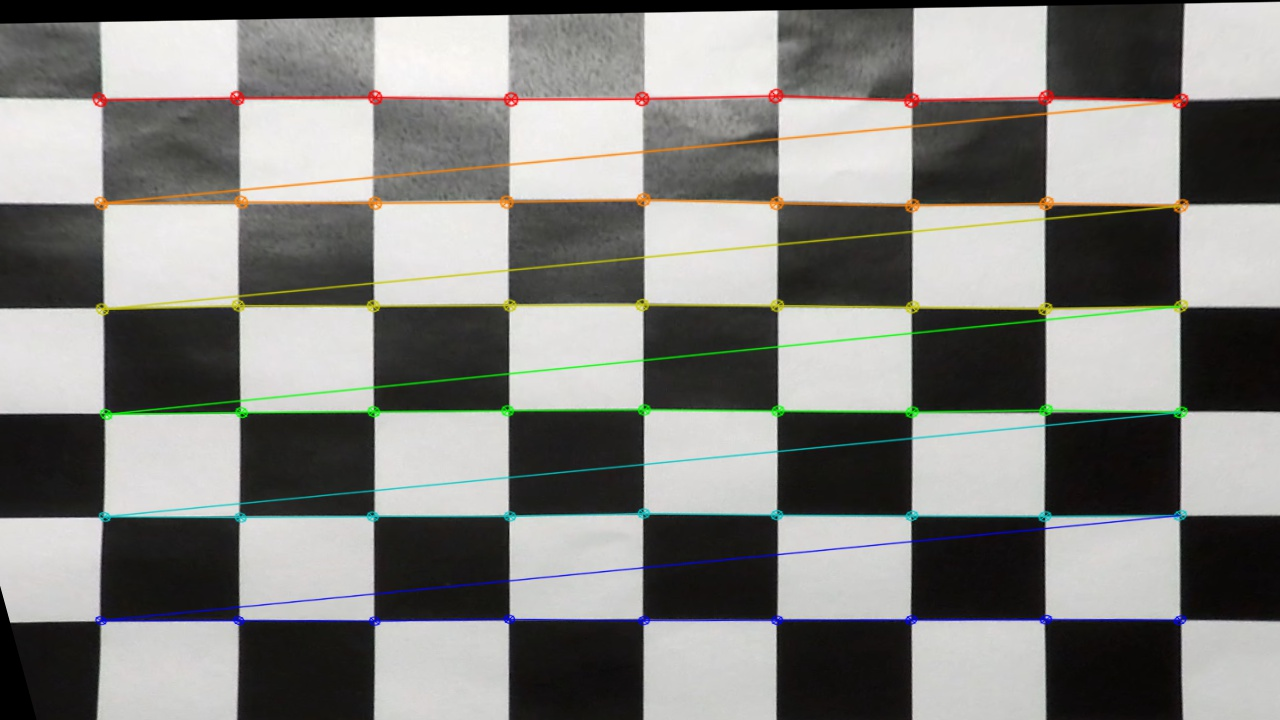
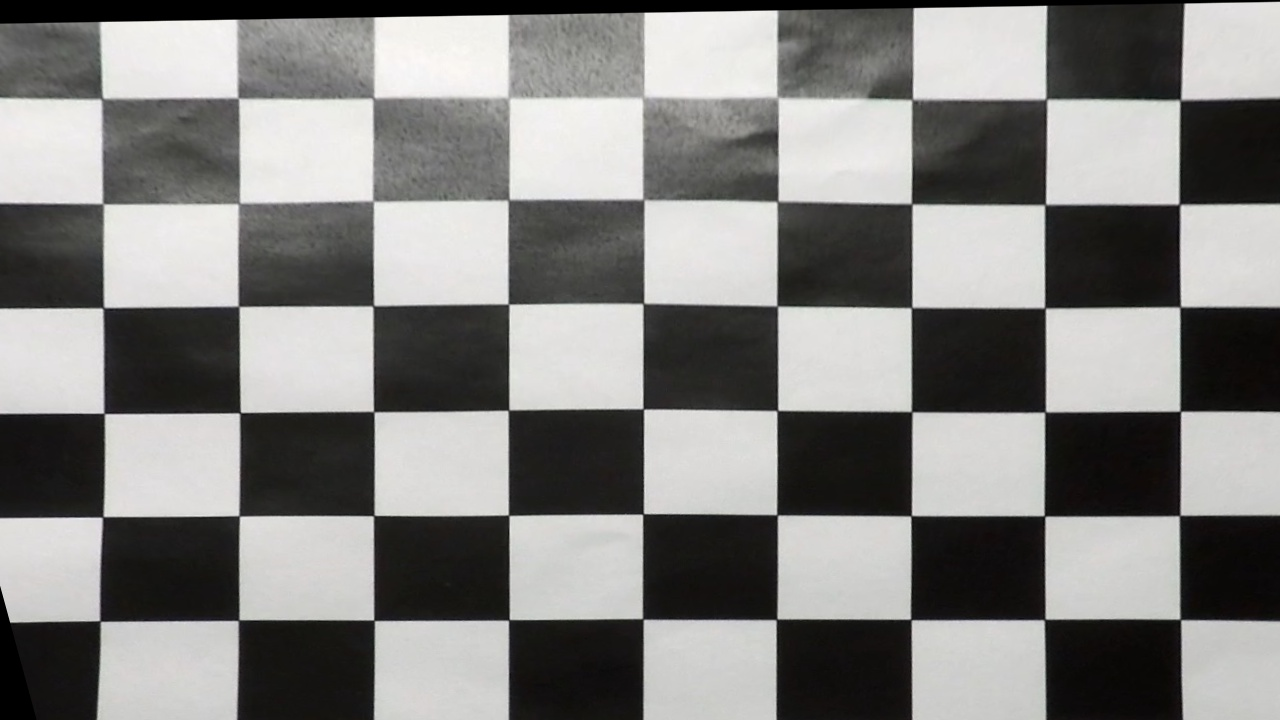
WIP on curve thresholds

diff --git a/transforms.py b/transforms.py
@@ -1,7 +1,6 @@
 import cv2
 import glob
 import pickle
-import sys, getopt
 import numpy as np
 
 nx, ny = 9, 6
@@ -10,7 +9,6 @@ img_in_dir      = 'camera_cal'
 chess_out_dir   = 'output_images/draw_chess'
 calib_out_dir   = 'output_images/calib_cam'
 warp_out_dir    = 'output_images/warped'
-params_out_file = 'output_rsc/wide_dist_pickle.p'
 # params_file    = 'wide_dist_pickle.p'
 
 def get_obj_img_points(nx=9, ny=6, in_dir='camera_cal', out_dir='draw_chess'):
@@ -50,13 +48,14 @@ def get_obj_img_points(nx=9, ny=6, in_dir='camera_cal', out_dir='draw_chess'):
 def calibrate_undistort(objpoints, imgpoints, test_image, out_dir='calib_cam'):
     # Test undistortion on an image
     # img = cv2.imread(test_image)
+    print("test_image type,", type(test_image))
     img_size = (test_image.shape[1], test_image.shape[0])
 
     # Doing camera calibration given object points and image points
     ret, mtx, dist, rvecs, tvecs = cv2.calibrateCamera(objpoints, imgpoints, img_size,None,None)
 
     dst = cv2.undistort(test_image, mtx, dist, None, mtx)
-    cv2.imwrite(out_dir+'/test_undist.jpg', dst)
+    cv2.imwrite(out_dir+'/lane_undist.jpg', dst)
     return mtx, dist
 
 def save_params(objpoints, imgpoints, mtx, dist, out_file='wide_dist_pickle.p'):
@@ -77,127 +76,57 @@ def load_params(in_file='wide_dist_pickle.p'):
     dist      = dist_pickle["dist"]
     return objpoints, imgpoints, mtx, dist
 
-def corners_unwarp(img, nx, ny, mtx, dist, out_dir='warped'):
-    # Pass in your image into this function
-    # Write code to do the following steps
-    # 1) Undistort using mtx and dist
-    # 2) Convert to grayscale
-    # 3) Find the chessboard corners
-    # 4) If corners found:
-            # a) draw corners
-            # b) define 4 source points src = np.float32([[,],[,],[,],[,]])
-                 #Note: you could pick any four of the detected corners
-                 # as long as those four corners define a rectangle
-                 #One especially smart way to do this would be to use four well-chosen
-                 # corners that were automatically detected during the undistortion steps
-                 #We recommend using the automatic detection of corners in your code
-            # c) define 4 destination points dst = np.float32([[,],[,],[,],[,]])
-            # d) use cv2.getPerspectiveTransform() to get M, the transform matrix
-            # e) use cv2.warpPerspective() to warp your image to a top-down view
-
-    # img_size = (img.shape[1], img.shape[0])
-    # Do camera calibration given object points and image points
-    # ret, mtx, dist, rvecs, tvecs = cv2.calibrateCamera(objpoints, imgpoints, img_size,None,None)
+def corners_unwarp(img, nx, ny, mtx, dist, single_ch=False, out_dir='warped'):
 
     undist_img = cv2.undistort(img, mtx, dist, None, mtx)
+    cv2.imwrite(out_dir+'/lane_undistort.jpg', undist_img)
 
-    gray = cv2.cvtColor(undist_img, cv2.COLOR_BGR2GRAY)
+    gray = img
+    if single_ch == False:
+        gray = cv2.cvtColor(undist_img, cv2.COLOR_BGR2GRAY)
 
-    # Find the chessboard corners
-    ret, corners = cv2.findChessboardCorners(gray, (nx, ny), None)
+    # Grab the image shape
+    img_size = (gray.shape[1], gray.shape[0])
+    print("img_zie is, ", img_size)
 
-    # If found, draw corners
-    if ret == True:
-        # Draw and display the corners - just for fun!!!
-        cv2.drawChessboardCorners(undist_img, (nx, ny), corners, ret)
-        # Choose offset from image corners to plot detected corners
-        # This should be chosen to present the result at the proper aspect ratio
-        # My choice of 100 pixels is not exact, but close enough for our purpose here
-        offset = 100 # offset for dst points
-        # Grab the image shape
-        img_size = (gray.shape[1], gray.shape[0])
+    # For source points I'm grabbing the trapeziod coordinates of two lane lines
+    # src = np.float32([[615, 437], [663, 437], [1057, 688], [247, 688]])
+    src = np.float32([[595, 449], [684, 449], [1057, 688], [247, 688]])
+    print("src np is,", src)
+    # For destination points, I'm choosing some points based on undistorted image
 
-        # For source points I'm grabbing the outer four detected corners
-        src = np.float32([corners[0], corners[nx-1], corners[-1], corners[-nx]])
-        # For destination points, I'm arbitrarily choosing some points to be
-        # a nice fit for displaying our warped result
-        # again, not exact, but close enough for our purposes
-        dst = np.float32([[offset, offset], [img_size[0]-offset, offset],
-                                     [img_size[0]-offset, img_size[1]-offset],
-                                     [offset, img_size[1]-offset]])
+    # dst = np.float32([[270, 0], [1040, 0], [1040, img_size[1]], [270, img_size[1]]])
+    dst = np.float32([[247, 0], [1057, 0], [1057, img_size[1]], [247, img_size[1]]])
+    print("dst np is,", dst)
 
-        M = cv2.getPerspectiveTransform(src, dst)
-        warped = cv2.warpPerspective(undist_img, M, img_size, flags=cv2.INTER_LINEAR)
-        cv2.imwrite(out_dir+'/test_warped.jpg', warped)
+    M = cv2.getPerspectiveTransform(src, dst)
+    warped = cv2.warpPerspective(undist_img, M, img_size, flags=cv2.INTER_LINEAR)
+    # warped = cv2.warpPerspective(undist_img, M, img_size)
     return warped, M
 
-def min_pipeline(image_filename, params_file):
-    test_img = cv2.imread(image_filename)
+def min_t_pipeline(test_img, params_file, single_ch=False):
+    # test_img = cv2.imread(image_filename)
+    print("test_image type,", type(test_img))
     # Reading in the saved objpoints, imgpoints, mtx, dist
     objpoints, imgpoints, mtx, dist = load_params(in_file=params_file)
-    top_down, perspective_M = corners_unwarp(test_img, nx, ny, mtx, dist, out_dir=warp_out_dir)
-    return top_down, perspective_M
+    warped_img, perspective_M = corners_unwarp(test_img, nx, ny, mtx, dist, single_ch, out_dir=warp_out_dir)
+    return warped_img, perspective_M
 
-def half_pipeline(image_filename, params_file):
+def half_t_pipeline(image_filename, params_file):
     test_img = cv2.imread(image_filename)
+    print("test_image type,", type(test_image))
     # Reading in the saved objpoints, imgpoints:: mtx and dist are dummy
     objpoints, imgpoints, mtx, dist = load_params(in_file=params_file)
     mtx, dist = calibrate_undistort(objpoints, imgpoints, test_image=test_img, out_dir=calib_out_dir)
     save_params(objpoints=objpoints, imgpoints=imgpoints, mtx=mtx, dist=dist, out_file=params_file)
-    top_down, perspective_M = corners_unwarp(test_img, nx, ny, mtx, dist, out_dir=warp_out_dir)
-    return top_down, perspective_M
+    warped_img, perspective_M = corners_unwarp(test_img, nx, ny, mtx, dist, out_dir=warp_out_dir)
+    return warped_img, perspective_M
 
-def full_pipeline(image_filename, params_file):
+def full_t_pipeline(image_filename, params_file):
     objpoints, imgpoints = get_obj_img_points(nx=nx, ny=ny, in_dir=img_in_dir, out_dir=chess_out_dir)
     test_img = cv2.imread(image_filename)
     mtx, dist = calibrate_undistort(objpoints, imgpoints, test_image=test_img, out_dir=calib_out_dir)
     # Writing out the params objpoints, imgpoints, mtx and dist
     save_params(objpoints=objpoints, imgpoints=imgpoints, mtx=mtx, dist=dist, out_file=params_file)
-    top_down, perspective_M = corners_unwarp(test_img, nx, ny, mtx, dist, out_dir=warp_out_dir)
-    return top_down, perspective_M
-
-def main(argv):
-    params_file = params_out_file
-    load_opt   = 'none'
-    test_image = 'calibration3.jpg'
-
-    try:
-        opts, args = getopt.getopt(argv,"hp:l:t:",["pfile=","load=","testimg="])
-        print("opts are:",opts)
-        print("args are:",args)
-    except getopt.GetoptError:
-        print ('transforms.py -p <paramsfile> -l <load_option> -t <test_image')
-        sys.exit(2)
-    for opt, arg in opts:
-        if opt in ("-h", "--help"):
-            print ('transforms.py -p <paramsfile> -l <load_option> -t <test_image>')
-            sys.exit()
-        elif opt in ("-p", "--pfile"):
-            params_file = arg
-        elif opt in ("-l", "--load"):
-            load_opt = arg
-        elif opt in ("-t", "--testimg"):
-            # print('arg is:', arg)
-            test_image = arg
-
-    print ('Params file is "', params_file)
-    print ('Load is "', load_opt)
-    print ('Test image is "', test_image)
-
-    if load_opt == 'all':
-        # Running minimum pipeline
-        top_down, perspective_M = min_pipeline(img_in_dir+'/'+test_image, params_file=params_file)
-    elif load_opt == 'objimg':
-        # Running half pipeline
-        top_down, perspective_M = half_pipeline(img_in_dir+'/'+test_image, params_file=params_file)
-    elif load_opt == 'none':
-        # Running full pipeline
-        ftop_down, perspective_M = full_pipeline(img_in_dir+'/'+test_image, params_file=params_file)
-    else:
-        print("Wrong load option provided: 'all', 'objimg', 'none'")
-        sys.exit()
-
-
-if __name__ == "__main__":
-    # execute only if run as a script
-    main(sys.argv[1:])
+    warped_img, perspective_M = corners_unwarp(test_img, nx, ny, mtx, dist, out_dir=warp_out_dir)
+    return warped_img, perspective_M

diff --git a/grad_color_pipeline.py b/grad_color_pipeline.py
@@ -1,0 +1,115 @@
+import numpy as np
+import cv2
+
+def gc_pipeline(img, s_thresh=(170, 255), sx_thresh=(20, 100)):
+    img = np.copy(img)
+
+    hls = cv2.cvtColor(img, cv2.COLOR_BGR2HLS).astype(np.float)
+    hls_s_channel = hls[:,:,2]
+
+    # plt.imshow(hls_s_channel, cmap='gray')
+    # plt.show()
+    # hsv = cv2.cvtColor(img, cv2.COLOR_BGR2HSV).astype(np.float)
+    # hsv_v_channel = hsv[:,:,2]
+
+    sxbinary = abs_sobel_thresh(hls_s_channel, orient='x', sobel_kernel=3, thresh=sx_thresh)
+    s_binary = channel_thresh(hls_s_channel, s_thresh)
+    # sxbinary = abs_sobel_thresh(hsv_v_channel, orient='x', sobel_kernel=3, thresh=sx_thresh)
+    # s_binary = channel_thresh(hsv_v_channel, s_thresh)
+
+    # Stack each channel
+    # Note color_binary[:, :, 0] is all 0s, effectively an all black image. It might
+    # be beneficial to replace this channel with something else.
+    # color_binary = np.dstack(( np.zeros_like(sxbinary), sxbinary, s_binary))
+    combined_binary = np.zeros_like(sxbinary)
+    combined_binary[(s_binary == 1) | (sxbinary == 1)] = 1
+
+    return combined_binary
+
+def gc_pipeline_comb(img, s_thresh=(170, 255), xy_th=(20, 100), mag_th=(20, 100), dir_th=(0.7, 1.3)):
+    img = np.copy(img)
+
+    hls = cv2.cvtColor(img, cv2.COLOR_BGR2HLS).astype(np.float)
+    hls_s_channel = hls[:,:,2]
+
+    # hsv = cv2.cvtColor(img, cv2.COLOR_BGR2HSV).astype(np.float)
+    # hsv_s_channel = hsv[:,:,1]
+
+    sxbinary = combined_thresh(hls_s_channel, xy_thresh=xy_th, m_thresh=mag_th, d_thresh=dir_th)
+    s_binary = channel_thresh(hls_s_channel, s_thresh)
+    # sxbinary = combined_thresh(hsv_s_channel, xy_thresh=xy_th, m_thresh=mag_th, d_thresh=dir_th)
+    # s_binary = channel_thresh(hsv_s_channel, s_thresh)
+
+    # Stack each channel
+    # Note color_binary[:, :, 0] is all 0s, effectively an all black image. It might
+    # be beneficial to replace this channel with something else.
+    # color_binary = np.dstack(( np.zeros_like(sxbinary), sxbinary, s_binary))
+    combined_binary = np.zeros_like(sxbinary)
+    combined_binary[(s_binary == 1) | (sxbinary == 1)] = 1
+
+    return combined_binary
+
+def mag_thresh(channel, sobel_kernel=3, mag_thresh=(0, 255)):
+    # Calculate gradient magnitude
+    # Apply threshold
+    # gray = cv2.cvtColor(channel, cv2.COLOR_RGB2GRAY)
+    sobelx = cv2.Sobel(channel, cv2.CV_64F, 1, 0, ksize=sobel_kernel)
+    sobely = cv2.Sobel(channel, cv2.CV_64F, 0, 1, ksize=sobel_kernel)
+
+    gradmag = np.sqrt(sobelx**2 + sobely**2)
+    # Rescale to 8 bit
+    scale_factor = np.max(gradmag)/255
+    gradmag = (gradmag/scale_factor).astype(np.uint8)
+    # Create a binary image of ones where threshold is met, zeros otherwise
+    mag_binary = np.zeros_like(gradmag)
+    mag_binary[(gradmag >= mag_thresh[0]) & (gradmag <= mag_thresh[1])] = 1
+
+    return mag_binary
+
+def dir_threshold(channel, sobel_kernel=3, dir_thresh=(0, np.pi/2)):
+    # Calculate gradient direction
+    # Apply threshold
+    # gray = cv2.cvtColor(image, cv2.COLOR_RGB2GRAY)
+    abs_sobelx = np.absolute(cv2.Sobel(channel, cv2.CV_64F, 1, 0, ksize=sobel_kernel))
+    abs_sobely = np.absolute(cv2.Sobel(channel, cv2.CV_64F, 0, 1, ksize=sobel_kernel))
+
+    dir_grad = np.arctan2(abs_sobely, abs_sobelx)
+    dir_binary = np.zeros_like(dir_grad)
+    dir_binary[(dir_grad >= dir_thresh[0]) & (dir_grad <= dir_thresh[1])] = 1
+    return dir_binary
+
+def combined_thresh(channel, xy_thresh=(20, 100), m_thresh=(30, 100), d_thresh=(0.7, 1.3)):
+    ksize = 3 # Choose a larger odd number to smooth gradient measurements
+    # Run the functions
+    gradx = abs_sobel_thresh(channel, orient='x', sobel_kernel=ksize, thresh=xy_thresh)
+    grady = abs_sobel_thresh(channel, orient='y', sobel_kernel=ksize, thresh=xy_thresh)
+    mag_binary = mag_thresh(channel, sobel_kernel=9, mag_thresh=m_thresh)
+    dir_binary = dir_threshold(channel, sobel_kernel=15, dir_thresh=d_thresh)
+
+    combined = np.zeros_like(dir_binary)
+    combined[((gradx == 1) & (grady == 1)) | ((mag_binary == 1) & (dir_binary == 1))] = 1
+
+    return combined
+
+def channel_thresh(channel, s_thresh=(170, 255)):
+    # Threshold color channel
+    s_binary = np.zeros_like(channel)
+    s_binary[(channel >= s_thresh[0]) & (channel <= s_thresh[1])] = 1
+
+    return s_binary
+
+def abs_sobel_thresh(channel, orient='x', sobel_kernel=3, thresh=(0, 255)):
+    # Apply threshold
+    if orient is 'x':
+        abs_sobel = np.absolute(cv2.Sobel(channel, cv2.CV_64F, 1, 0, ksize=sobel_kernel))
+    elif orient is 'y':
+        abs_sobel = np.absolute(cv2.Sobel(channel, cv2.CV_64F, 0, 1, ksize=sobel_kernel))
+    else:
+        print("Wrong orienatation provided in abs_sobel_thresh()")
+        return
+
+    scaled_sobel = np.uint8(255*abs_sobel/np.max(abs_sobel))
+    grad_binary = np.zeros_like(scaled_sobel)
+    grad_binary[(scaled_sobel >= thresh[0]) & (scaled_sobel <= thresh[1])] = 1
+
+    return grad_binary

diff --git a/lane-tracker.py b/lane-tracker.py
@@ -1,0 +1,75 @@
+import sys, getopt
+import cv2
+import matplotlib.pyplot as plt
+import matplotlib.image as mpimg
+
+from transforms import min_t_pipeline, half_t_pipeline, full_t_pipeline
+from grad_color_pipeline import gc_pipeline, gc_pipeline_comb
+
+params_out_file = 'output_rsc/wide_dist_pickle.p'
+out_dir         = 'output_images/warped'
+def gct_pipeline(test_image, params_file, out_dir=out_dir):
+    # image = cv2.imread('gray.jpg', cv2.CV_LOAD_IMAGE_GRAYSCALE)
+    test_img = cv2.imread(test_image)
+    # test_img = mpimg.imread(test_image)
+    # binary_img = gc_pipeline(test_img, s_thresh=(170, 245), sx_thresh=(30, 90))
+    binary_img = gc_pipeline_comb(test_img)
+    plt.imshow(binary_img, cmap='gray')
+    plt.show()
+
+    # print("bin image shape is,", binary_img.shape)
+    # print("bin image is,", binary_img)
+    cv2.imwrite(out_dir+'/lane_binary.jpg', (binary_img*255))
+    warped_img, perspective_M = min_t_pipeline(binary_img, single_ch=True, params_file=params_file)
+    cv2.imwrite(out_dir+'/lane_gc_warped.jpg', (warped_img*255))
+    return warped_img, perspective_M
+
+def main(argv):
+    params_file = params_out_file
+    op          = 'none'
+    test_image  = 'camera_cal/calibration3.jpg'
+    op          = 'gct' # perspective transform, gradient masking, color masking
+
+
+    try:
+        opts, args = getopt.getopt(argv,"hp:o:t:",["pfile=","op=","testimg="])
+    except getopt.GetoptError:
+        print ('lane-tracker.py -p <paramsfile> -o <operation> -t <test_image>')
+        sys.exit(2)
+    for opt, arg in opts:
+        if opt in ("-h", "--help"):
+            print ('lane-tracker.py -p <paramsfile> -o <operation> -t <test_image>')
+            sys.exit()
+        elif opt in ("-p", "--pfile"):
+            params_file = arg
+        elif opt in ("-o", "--op"):
+            op = arg
+        elif opt in ("-t", "--testimg"):
+            test_image = arg
+
+    print ('Params file is "', params_file)
+    print ('Test image is "', test_image)
+    print ('Operation is "', op)
+
+    if op == 'all_trans':
+        # Running full transformation pipeline
+        warped_img, perspective_M = full_t_pipeline(test_image, params_file=params_file)
+    elif op == 'objimg':
+        # Running half transformation pipeline
+        warped_img, perspective_M = half_t_pipeline(test_image, params_file=params_file)
+    elif op == 'trans':
+        test_img = cv2.imread(test_image)
+        # Running full transformation pipeline
+        warped_img, perspective_M = min_t_pipeline(test_img, params_file=params_file)
+        cv2.imwrite(out_dir+'/lane_warped.jpg', warped_img)
+    elif op == 'gct':
+        # Running gradient_color masking then min transformation pipeline
+        warped_img, perspective_M = gct_pipeline(test_image, params_file=params_file, out_dir=out_dir)
+    else:
+        print("Wrong load option provided: 'all_trans', 'objimg', 'trans', 'gct'")
+        sys.exit()
+
+
+if __name__ == "__main__":
+    # execute only if run as a script
+    main(sys.argv[1:])
